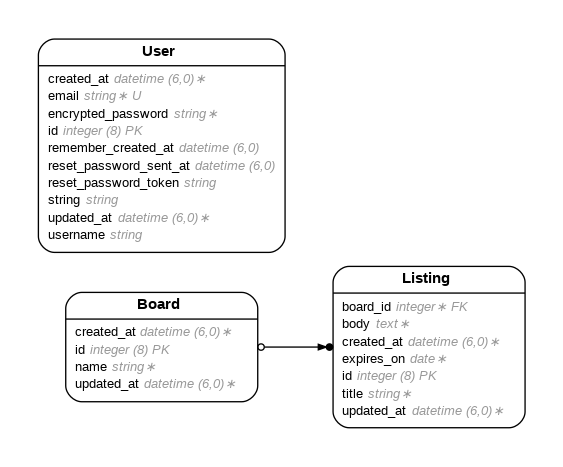
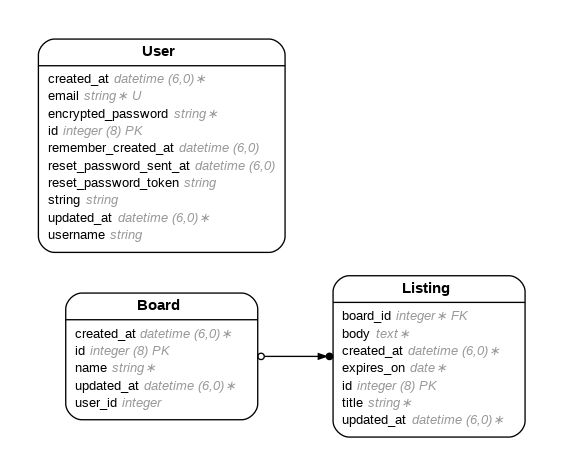
added user_id column to boards

Changed region(s): [[0.0604, 0.06, 0.5133, 0.5396], [0.4529, 0.5696, 0.9361, 0.9293], [0.0906, 0.5996, 0.4831, 0.8994]]

diff --git a/db/schema.rb b/db/schema.rb
@@ -10,7 +10,7 @@
 #
 # It's strongly recommended that you check this file into your version control system.
 
-ActiveRecord::Schema[8.0].define(version: 2025_08_25_162318) do
+ActiveRecord::Schema[8.0].define(version: 2025_08_25_164354) do
   # These are extensions that must be enabled in order to support this database
   enable_extension "pg_catalog.plpgsql"
 
@@ -18,6 +18,7 @@ ActiveRecord::Schema[8.0].define(version: 2025_08_25_162318) do
     t.string "name"
     t.datetime "created_at", null: false
     t.datetime "updated_at", null: false
+    t.integer "user_id"
   end
 
   create_table "listings", force: :cascade do |t|

diff --git a/app/models/board.rb b/app/models/board.rb
@@ -6,6 +6,7 @@
 #  name       :string
 #  created_at :datetime         not null
 #  updated_at :datetime         not null
+#  user_id    :integer
 #
 class Board < ApplicationRecord
   validates :name, presence: true

diff --git a/db/migrate/20250825164354_add_user_id_to_boards.rb b/db/migrate/20250825164354_add_user_id_to_boards.rb
@@ -1,0 +1,5 @@
+class AddUserIdToBoards < ActiveRecord::Migration[8.0]
+  def change
+    add_column :boards, :user_id, :integer
+  end
+end
